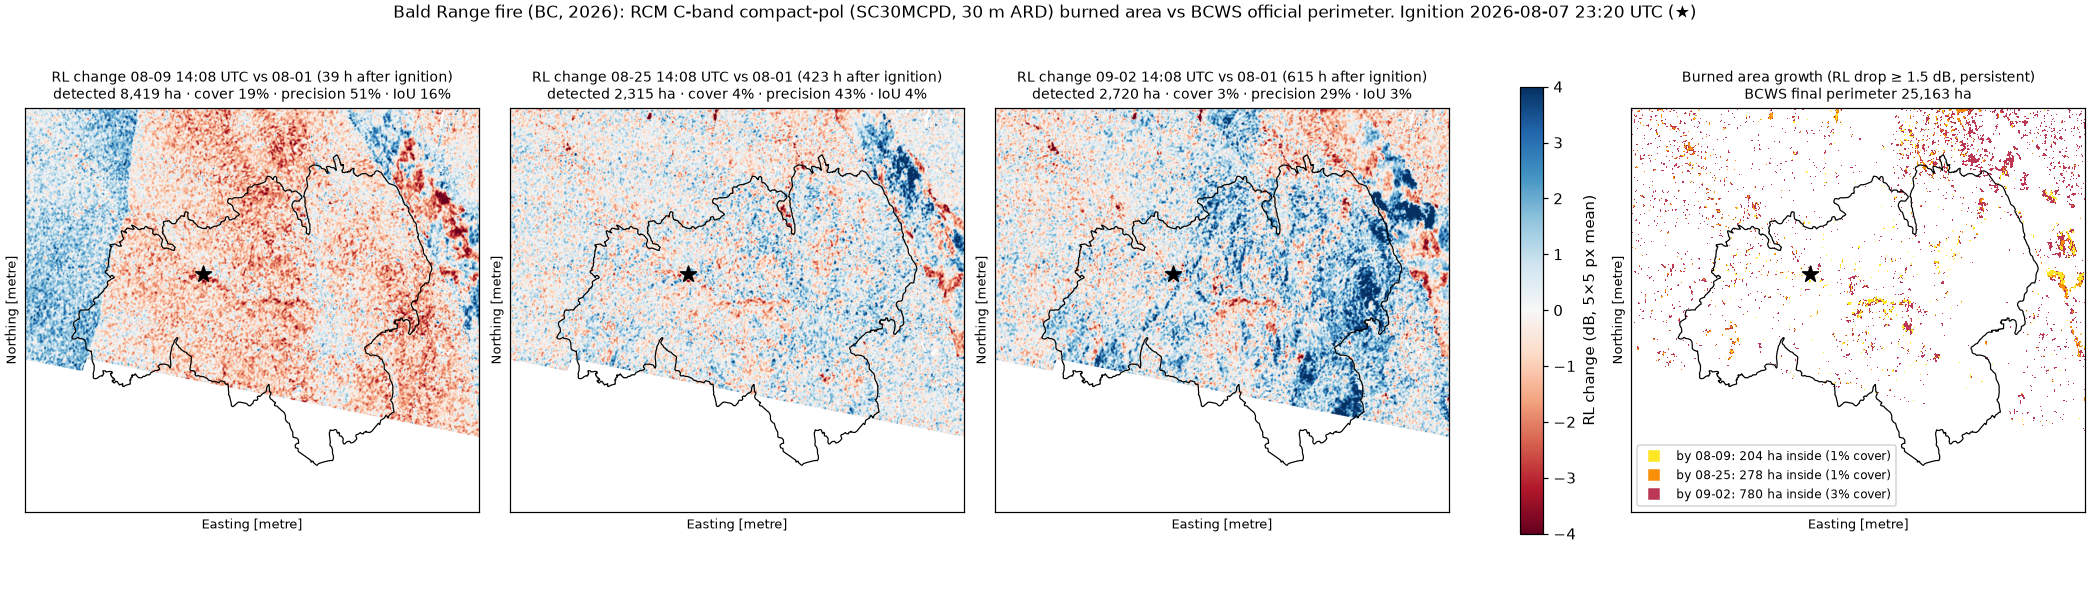
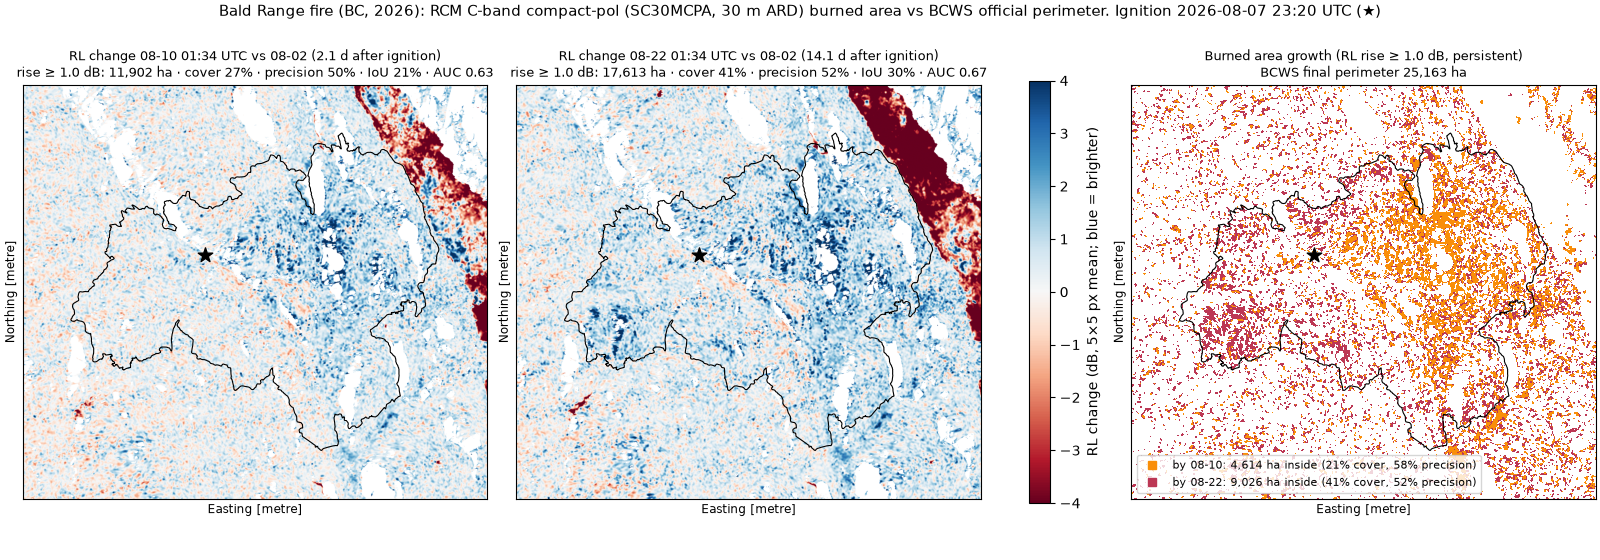
canada: RCM rule flipped to RL increase, broken SC30MCPD 08-09 dropped, SC30MCPA 08-02 -> 08-10/08-22

diff --git a/real_fires/scripts/rcm_burned_area.py b/real_fires/scripts/rcm_burned_area.py
@@ -1,16 +1,17 @@
 """RCM C-band burned-area prototype on the Bald Range fire (BC, 2026), scored against the BCWS perimeter.
 
-Same beam and geometry (SC30MCPD, descending ~14:08 UTC): reference 08-01 (6 days before ignition)
-vs 08-09 (~39 h after ignition), 08-25 and 09-02. Only a window around the fire is read from the public
-RCM CEOS-ARD bucket; clips are cached in data/fires/bald_range/raw/rcm/ (not committed).
+Same beam and geometry (SC30MCPA, ascending ~01:34 UTC = 18:34 PDT the previous evening):
+reference 08-02 (5.4 days before ignition) vs 08-10 (2.1 days after) and 08-22 (14.1 days after).
+Only a window around the fire is read from the public RCM CEOS-ARD bucket; clips are cached in
+data/fires/bald_range/raw/rcm/ (not committed).
 
-Rule (fixed beforehand, same form as the NISAR burn-scar rule in nisar_provider.py): RL (cross-pol) change
-averaged over SMOOTH x SMOOTH pixels, burned where the drop is >= DROP_DB. A sweep of thresholds is reported
-for transparency, not used to pick the result.
+Rule: RL (cross-pol) change averaged over SMOOTH x SMOOTH pixels; burned where RL ROSE by >= RISE_DB.
+Why an increase and not a drop: see data/fires/bald_range/README.md (C-band brightening of fire scars).
+RISE_DB is fixed beforehand; the sweep is reported for transparency, not used to pick the result.
 
-Radiometric normalisation: each later scene is quantile-mapped (in dB) onto the reference scene using only
-unburned reference pixels (outside the official perimeter + 2 km). On consistent scenes this is ~identity;
-it is needed for 08-09, whose RL/RR are ~11 dB higher everywhere with a compressed range (calibration issue).
+Radiometric check: each later scene is quantile-mapped (in dB) onto the reference using only unburned
+reference pixels (outside the official perimeter + 2 km). On consistent scenes this is ~identity; the raw
+offset is reported so a broken scene (like SC30MCPD 08-09, +11.9 dB) is visible.
 
 Run from real_fires/:  python scripts/rcm_burned_area.py
 """
@@ -18,6 +19,7 @@ from __future__ import annotations
 
 import json
 
+import geopandas as gpd
 import matplotlib
 import numpy as np
 import pandas as pd
@@ -37,12 +39,14 @@ CRS = 32611                      # UTM 11N, native grid of these RCM tiles
 BUFFER_M = 3000
 REF_BUFFER_M = 2000              # reference (unburned) pixels lie this far outside the perimeter
 SMOOTH = 5                       # 5 x 5 pixels of 20 m = 100 m
-DROP_DB = 1.5
-SWEEP_DB = [1.0, 1.5, 2.0, 3.0]
-REF = "RCM2_OK4114697_PK4292834_1_SC30MCPD_20260801_140821_CH_CV_MLC"
-POST = ["RCM1_OK4114697_PK4307194_1_SC30MCPD_20260809_140811_CH_CV_MLC",
-        "RCM2_OK4114697_PK4335941_1_SC30MCPD_20260825_140819_CH_CV_MLC",
-        "RCM1_OK4114697_PK4349967_1_SC30MCPD_20260902_140809_CH_CV_MLC"]
+RISE_DB = 1.0                    # fixed beforehand (see README); literature boreal scars: +3..6 dB when wet
+SWEEP_DB = [0.5, 1.0, 1.5, 2.0, 3.0]
+BEAM = "SC30MCPA"
+# SC30MCPC (08-06 / 08-18 / 08-30) was the first choice but its data swath misses the fire (0-0.1 % valid
+# pixels in the window, although the product footprint polygon contains the origin), so SC30MCPA is used.
+REF = ["RCM1_OK4114697_PK4293771_1_SC30MCPA_20260802_013425_CH_CV_MLC"]
+POST = [["RCM3_OK4114697_PK4308170_1_SC30MCPA_20260810_013442_CH_CV_MLC"],
+        ["RCM3_OK4114697_PK4329615_1_SC30MCPA_20260822_013440_CH_CV_MLC"]]
 D = REPO_ROOT / "data" / "fires" / "bald_range"
 
 
@@ -59,9 +63,9 @@ def quantile_map_db(x: np.ndarray, ref: np.ndarray, sel: np.ndarray) -> np.ndarr
         return 10 ** (np.interp(10 * np.log10(x), xs, rs) / 10)
 
 
-def auc(inside: np.ndarray, outside: np.ndarray) -> float:
-    """P(random inside pixel has a larger *drop* than a random outside pixel); 0.5 = no separation."""
-    a, b = -inside[np.isfinite(inside)], -outside[np.isfinite(outside)]
+def auc_rise(inside: np.ndarray, outside: np.ndarray) -> float:
+    """P(random inside pixel rose more than a random outside pixel); 0.5 = no separation, 1 = perfect."""
+    a, b = inside[np.isfinite(inside)], outside[np.isfinite(outside)]
     r = pd.Series(np.concatenate([a, b])).rank().to_numpy()
     return float((r[:len(a)].sum() - len(a) * (len(a) + 1) / 2) / (len(a) * len(b)))
 
@@ -72,43 +76,45 @@ def main():
         p.mkdir(parents=True, exist_ok=True)
     fire = bcws.download_fire(FIRE_NUMBER, YEAR, raw)
     fire.to_file(proc / "bcws_final_perimeter.geojson", driver="GeoJSON")
+    ignition = pd.Timestamp(fire.attr_FireDiscoveryDateTime.iloc[0])
     f = fire.to_crs(CRS)
     transform, shape = rcm.grid(tuple(f.buffer(BUFFER_M).total_bounds))
     px_m2 = transform.a ** 2
     W = rasterize([f.geometry.iloc[0]], out_shape=shape, transform=transform).astype(bool)
     near = rasterize([f.buffer(REF_BUFFER_M).iloc[0]], out_shape=shape, transform=transform).astype(bool)
 
-    def load(scene):
-        a = {k: rcm.read_clipped(scene, k, CRS, transform, shape, raw / "rcm") for k in ("RL", "RR", "bitmask")}
-        ok = (a["bitmask"] == 1) & np.isfinite(a["RL"]) & np.isfinite(a["RR"])
-        return a["RL"], a["RR"], ok
+    def load(frames):
+        """Mosaic adjacent frames of one pass: first frame with a valid pixel (bitmask == 1) wins."""
+        rl, rr = np.full(shape, np.nan, np.float32), np.full(shape, np.nan, np.float32)
+        for s in frames:
+            a = {k: rcm.read_clipped(s, k, CRS, transform, shape, raw / "rcm") for k in ("RL", "RR", "bitmask")}
+            ok = (a["bitmask"] == 1) & np.isfinite(a["RL"]) & np.isfinite(a["RR"]) & np.isnan(rl)
+            rl[ok], rr[ok] = a["RL"][ok], a["RR"][ok]
+        return rl, rr, np.isfinite(rl)
 
     rl0, rr0, ok0 = load(REF)
     rows, diag, burned_by_date = [], [], {}
-    for scene in POST:
-        rl, rr, ok = load(scene)
+    for frames in POST:
+        rl, rr, ok = load(frames)
         valid = ok0 & ok
         sel = valid & ~near
         offset = float(np.nanmedian(10 * np.log10(rl[sel] / rl0[sel])))
-        rl_n, rr_n = quantile_map_db(rl, rl0, sel), quantile_map_db(rr, rr0, sel)
-        d_rl = hv_change_db(rl_n, rl0, SMOOTH)
-        d_rr = hv_change_db(rr_n, rr0, SMOOTH)
+        d_rl = hv_change_db(quantile_map_db(rl, rl0, sel), rl0, SMOOTH)
+        d_rr = hv_change_db(quantile_map_db(rr, rr0, sel), rr0, SMOOTH)
         d_ratio = d_rl - d_rr
         valid &= np.isfinite(d_rl)
-        t = when(scene)
-        h = (t - pd.Timestamp(fire.attr_FireDiscoveryDateTime.iloc[0])).total_seconds() / 3600
+        t = when(frames[0])
+        h = (t - ignition).total_seconds() / 3600
+        feats = (("RL", d_rl), ("RR", d_rr), ("RLRR", d_ratio))
         diag.append({"date": f"{t:%Y-%m-%d}", "raw_RL_offset_outside_db": round(offset, 2),
-                     **{f"median_d{k}_in_db": round(float(np.nanmedian(v[W & valid])), 2) for k, v in
-                        (("RL", d_rl), ("RR", d_rr), ("RLRR", d_ratio))},
-                     **{f"median_d{k}_out_db": round(float(np.nanmedian(v[sel & valid])), 2) for k, v in
-                        (("RL", d_rl), ("RR", d_rr), ("RLRR", d_ratio))},
-                     **{f"auc_d{k}": round(auc(v[W & valid], v[sel & valid]), 3) for k, v in
-                        (("RL", d_rl), ("RR", d_rr), ("RLRR", d_ratio))}})
+                     **{f"median_d{k}_in_db": round(float(np.nanmedian(v[W & valid])), 2) for k, v in feats},
+                     **{f"median_d{k}_out_db": round(float(np.nanmedian(v[sel & valid])), 2) for k, v in feats},
+                     **{f"auc_rise_d{k}": round(auc_rise(v[W & valid], v[sel & valid]), 3) for k, v in feats}})
         for thr in SWEEP_DB:
-            b = np.nan_to_num(d_rl, nan=0.0) <= -thr
-            rows.append({"date": f"{t:%Y-%m-%d %H:%M}", "hours_after_ignition": round(h, 1), "drop_db": thr,
+            b = np.nan_to_num(d_rl, nan=0.0) >= thr
+            rows.append({"date": f"{t:%Y-%m-%d %H:%M}", "hours_after_ignition": round(h, 1), "rise_db": thr,
                          **rcm.scores(b, W, valid, px_m2)})
-            if thr == DROP_DB:
+            if thr == RISE_DB:
                 burned_by_date[t] = (b & valid, d_rl, valid)
 
     df = pd.DataFrame(rows)
@@ -125,47 +131,49 @@ def main():
                        count=1, dtype="uint8", crs=CRS, transform=transform, compress="deflate", nodata=0) as d:
         d.write(first, 1)
         d.update_tags(values=", ".join(f"{i + 1}={t:%Y-%m-%d}" for i, t in enumerate(dates)),
-                      rule=f"RL drop >= {DROP_DB} dB, {SMOOTH}x{SMOOTH} px, persistent to {dates[-1]:%Y-%m-%d}")
+                      rule=f"RL rise >= {RISE_DB} dB, {SMOOTH}x{SMOOTH} px, persistent to {dates[-1]:%Y-%m-%d}")
     valid_all = np.logical_and.reduce([burned_by_date[t][2] for t in dates])
     growth = [{"date": f"{t:%Y-%m-%d}", **rcm.scores((first > 0) & (first <= i + 1), W, valid_all, px_m2)}
               for i, t in enumerate(dates)]
     pd.DataFrame(growth).to_csv(proc / "rcm_growth_persistent.csv", index=False)
     (proc / "rcm_burned_summary.json").write_text(json.dumps(
-        {"fire": "Bald Range (BCWS K51490)", "official_ha": float(fire.bcws_hectares.iloc[0]),
-         "reference_scene": REF, "post_scenes": POST, "rule": f"RL drop >= {DROP_DB} dB, {SMOOTH}x{SMOOTH} px (100 m)",
-         "per_date": df[df.drop_db == DROP_DB].to_dict("records"), "persistent_growth": growth,
+        {"fire": "Bald Range (BCWS K51490)", "official_ha": float(fire.bcws_hectares.iloc[0]), "beam": BEAM,
+         "reference_scenes": REF, "post_scenes": POST,
+         "rule": f"RL rise >= {RISE_DB} dB, {SMOOTH}x{SMOOTH} px (100 m)",
+         "per_date": df[df.rise_db == RISE_DB].to_dict("records"), "persistent_growth": growth,
          "diagnostics": diag}, indent=1, default=str))
 
     # Figure: RL change per date + growth map, BCWS perimeter in black.
     ext = (transform.c, transform.c + shape[1] * transform.a, transform.f + shape[0] * transform.e, transform.f)
-    ign = fire.set_geometry(pd.Series(
-        __import__("geopandas").points_from_xy(fire.attr_InitialLongitude, fire.attr_InitialLatitude)), crs=4326).to_crs(CRS)
-    fig, axes = plt.subplots(1, 4, figsize=(19, 5.4), constrained_layout=True)
-    for ax, t in zip(axes[:3], dates):
+    ign = gpd.GeoSeries(gpd.points_from_xy(fire.attr_InitialLongitude, fire.attr_InitialLatitude), crs=4326).to_crs(CRS)
+    n = len(dates)
+    fig, axes = plt.subplots(1, n + 1, figsize=(5 * (n + 1) + 1, 5.6), constrained_layout=True)
+    for ax, t in zip(axes[:n], dates):
         b, d_rl, valid = burned_by_date[t]
         im = ax.imshow(np.where(valid, d_rl, np.nan), cmap="RdBu", vmin=-4, vmax=4, extent=ext)
-        r = df[(df.date.str.startswith(f"{t:%Y-%m-%d}")) & (df.drop_db == DROP_DB)].iloc[0]
-        ax.set_title(f"RL change {t:%m-%d %H:%M} UTC vs 08-01 ({r.hours_after_ignition:.0f} h after ignition)\n"
-                     f"detected {r.detected_ha:,.0f} ha · cover {r.cover_pct:.0f}% · precision {r.precision_pct:.0f}% "
-                     f"· IoU {r.iou_pct:.0f}%", fontsize=9)
-    fig.colorbar(im, ax=axes[:3], shrink=0.8, label=f"RL change (dB, {SMOOTH}×{SMOOTH} px mean)")
-    cols = ["#fde725", "#f98e09", "#bc3754"][:len(dates)]
-    axes[3].imshow(np.where(first > 0, first, np.nan), cmap=ListedColormap(cols), vmin=0.5, vmax=len(dates) + 0.5,
+        r = df[(df.date.str.startswith(f"{t:%Y-%m-%d}")) & (df.rise_db == RISE_DB)].iloc[0]
+        a = next(x for x in diag if x["date"] == f"{t:%Y-%m-%d}")
+        ax.set_title(f"RL change {t:%m-%d %H:%M} UTC vs 08-02 ({r.hours_after_ignition / 24:.1f} d after ignition)\n"
+                     f"rise ≥ {RISE_DB} dB: {r.detected_ha:,.0f} ha · cover {r.cover_pct:.0f}% · precision "
+                     f"{r.precision_pct:.0f}% · IoU {r.iou_pct:.0f}% · AUC {a['auc_rise_dRL']:.2f}", fontsize=9)
+    fig.colorbar(im, ax=axes[:n], shrink=0.8, label=f"RL change (dB, {SMOOTH}×{SMOOTH} px mean; blue = brighter)")
+    cols = ["#f98e09", "#bc3754", "#57106e"][:n]
+    axes[n].imshow(np.where(first > 0, first, np.nan), cmap=ListedColormap(cols), vmin=0.5, vmax=n + 0.5,
                    extent=ext, interpolation="nearest")
     for c, g in zip(cols, growth):
-        axes[3].plot([], [], "s", color=c, label=f"by {g['date'][5:]}: {g['detected_inside_ha']:,.0f} ha inside "
-                                                  f"({g['cover_pct']:.0f}% cover)")
-    axes[3].legend(loc="lower left", fontsize=8)
-    axes[3].set_title(f"Burned area growth (RL drop ≥ {DROP_DB} dB, persistent)\nBCWS final perimeter "
+        axes[n].plot([], [], "s", color=c, label=f"by {g['date'][5:]}: {g['detected_inside_ha']:,.0f} ha inside "
+                                                  f"({g['cover_pct']:.0f}% cover, {g['precision_pct']:.0f}% precision)")
+    axes[n].legend(loc="lower left", fontsize=8)
+    axes[n].set_title(f"Burned area growth (RL rise ≥ {RISE_DB} dB, persistent)\nBCWS final perimeter "
                       f"{fire.bcws_hectares.iloc[0]:,.0f} ha", fontsize=9)
     for ax in axes:
         f.boundary.plot(ax=ax, color="k", lw=0.8)
         ign.plot(ax=ax, marker="*", color="k", markersize=120)
         ax.set_xticks([]); ax.set_yticks([])
-    fig.suptitle("Bald Range fire (BC, 2026): RCM C-band compact-pol (SC30MCPD, 30 m ARD) burned area vs BCWS "
-                 "official perimeter. Ignition 2026-08-07 23:20 UTC (★)", fontsize=11)
+    fig.suptitle(f"Bald Range fire (BC, 2026): RCM C-band compact-pol ({BEAM}, 30 m ARD) burned area vs BCWS "
+                 f"official perimeter. Ignition {ignition:%Y-%m-%d %H:%M} UTC (★)", fontsize=11)
     out = figs / "rcm_burned_area_growth.png"
-    fig.savefig(out, dpi=110)
+    fig.savefig(out, dpi=100)
     print(df.to_string(index=False)); print(pd.DataFrame(diag).T.to_string()); print(pd.DataFrame(growth).to_string(index=False))
     print(out)
 
